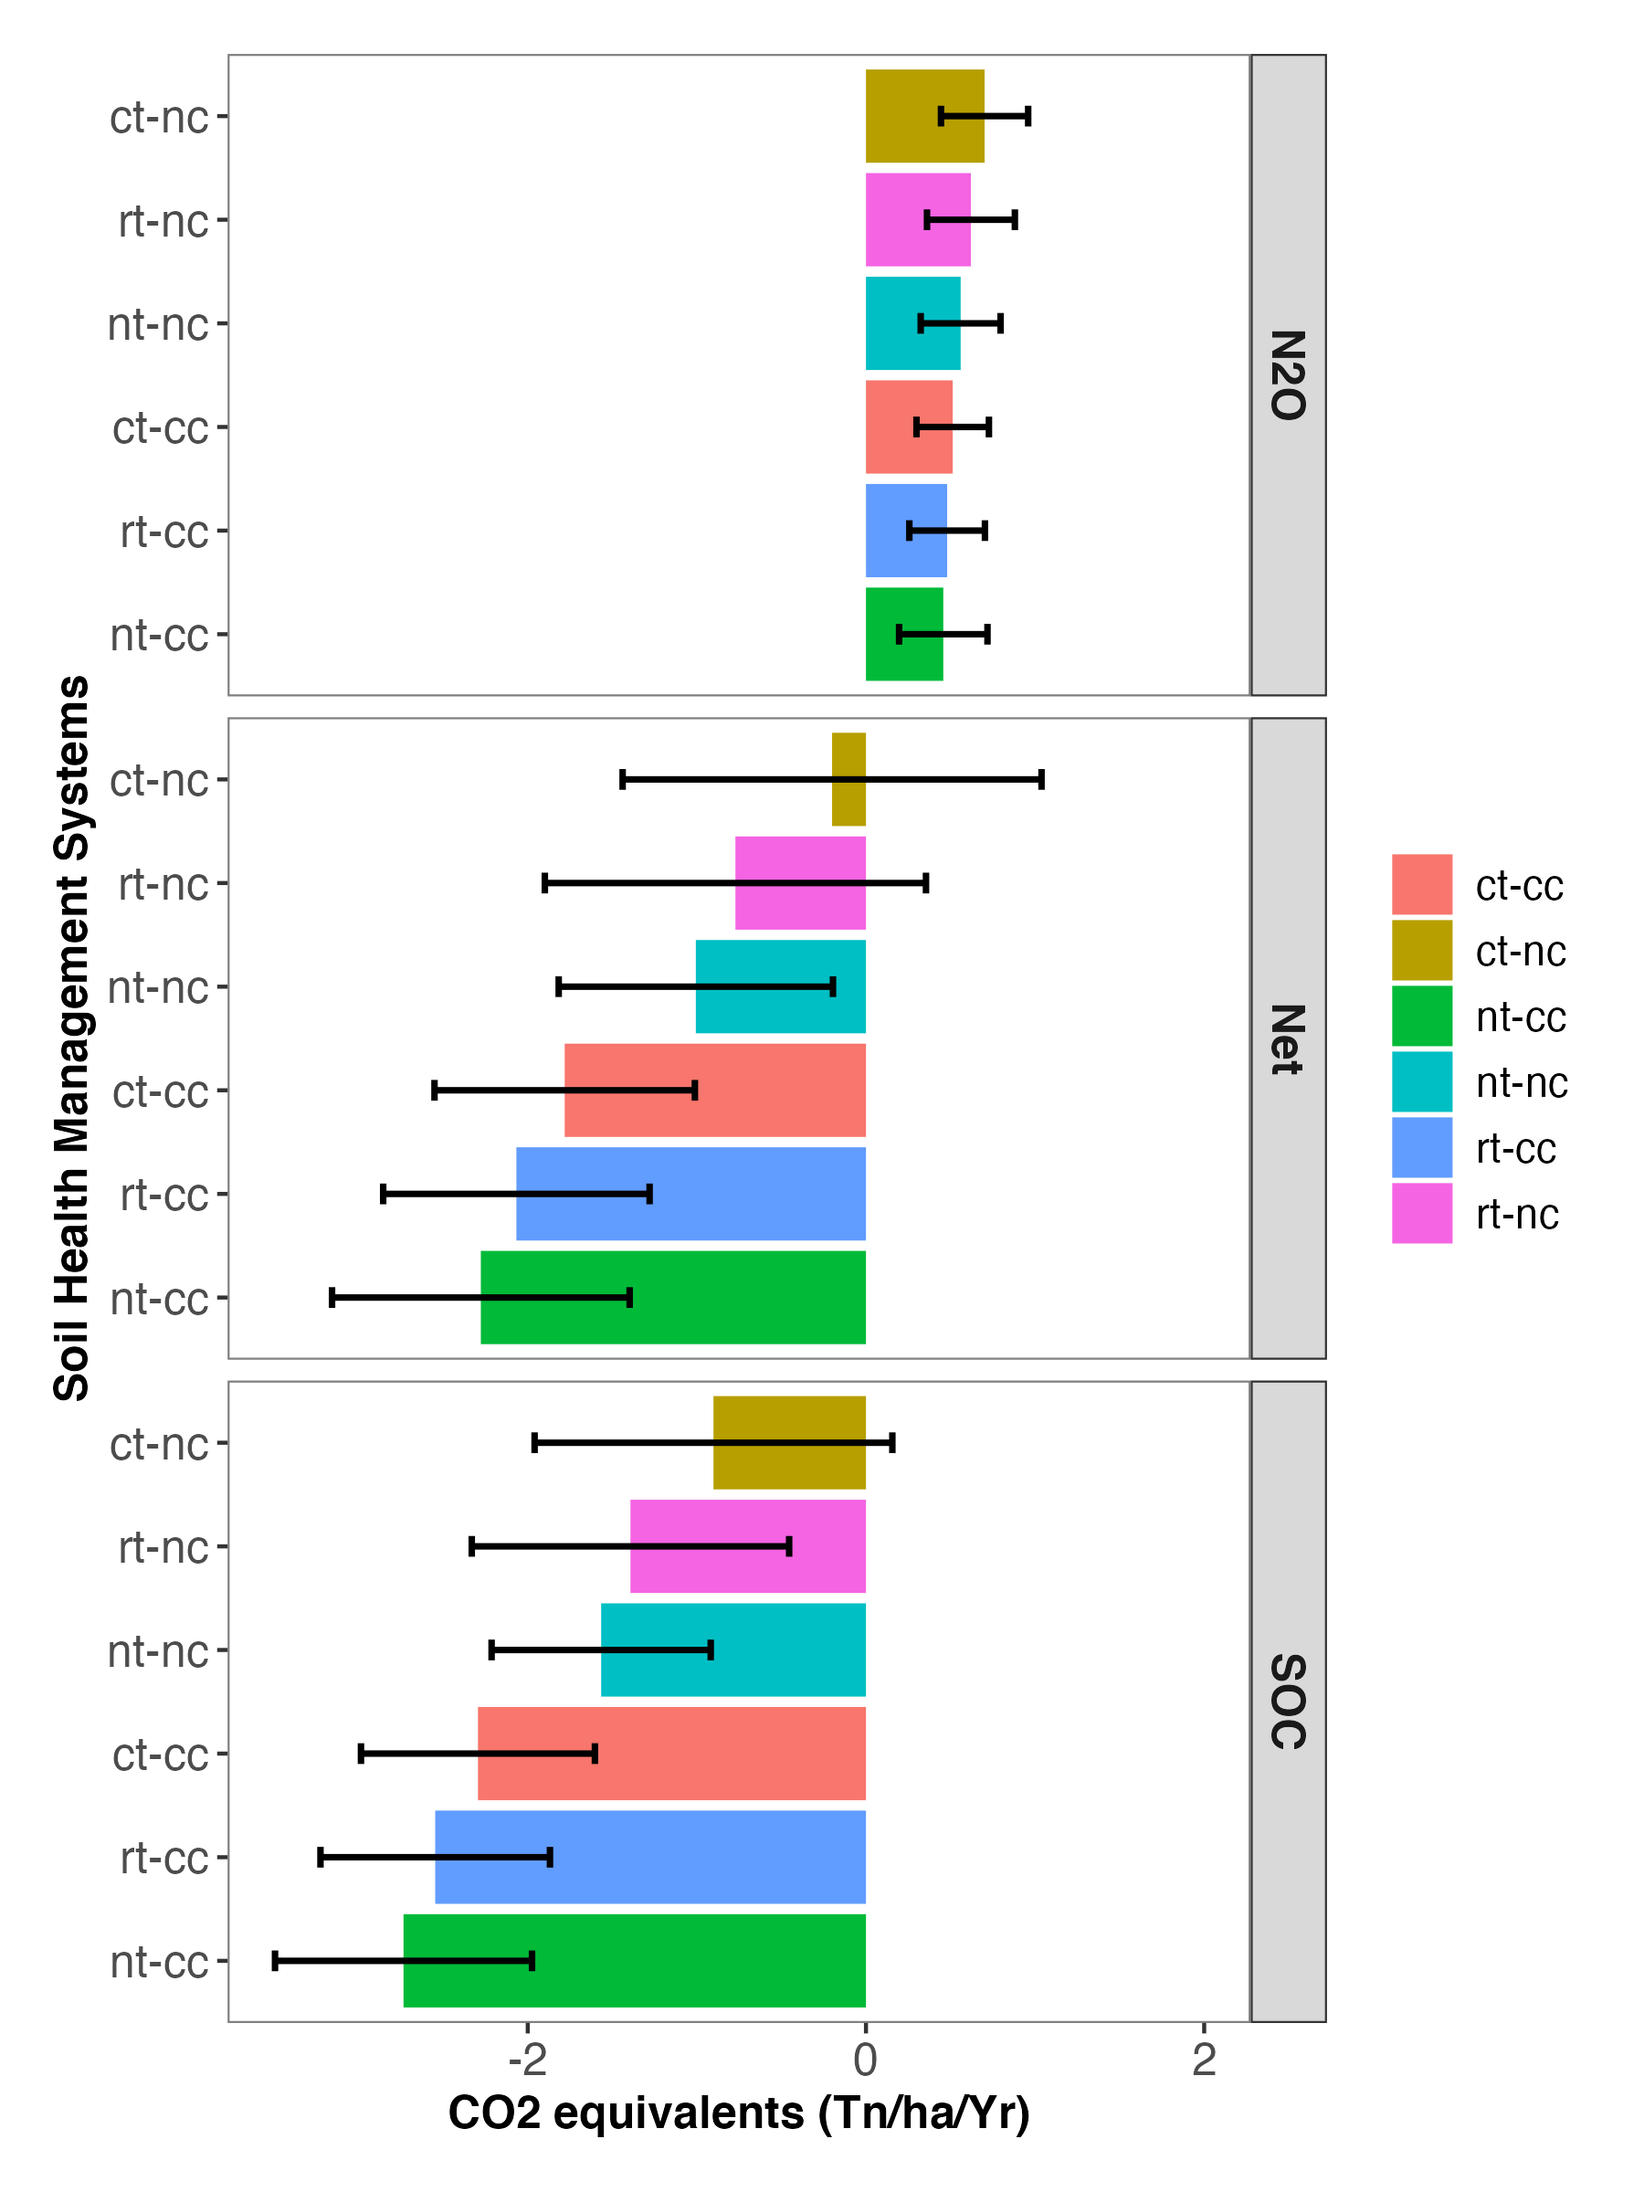
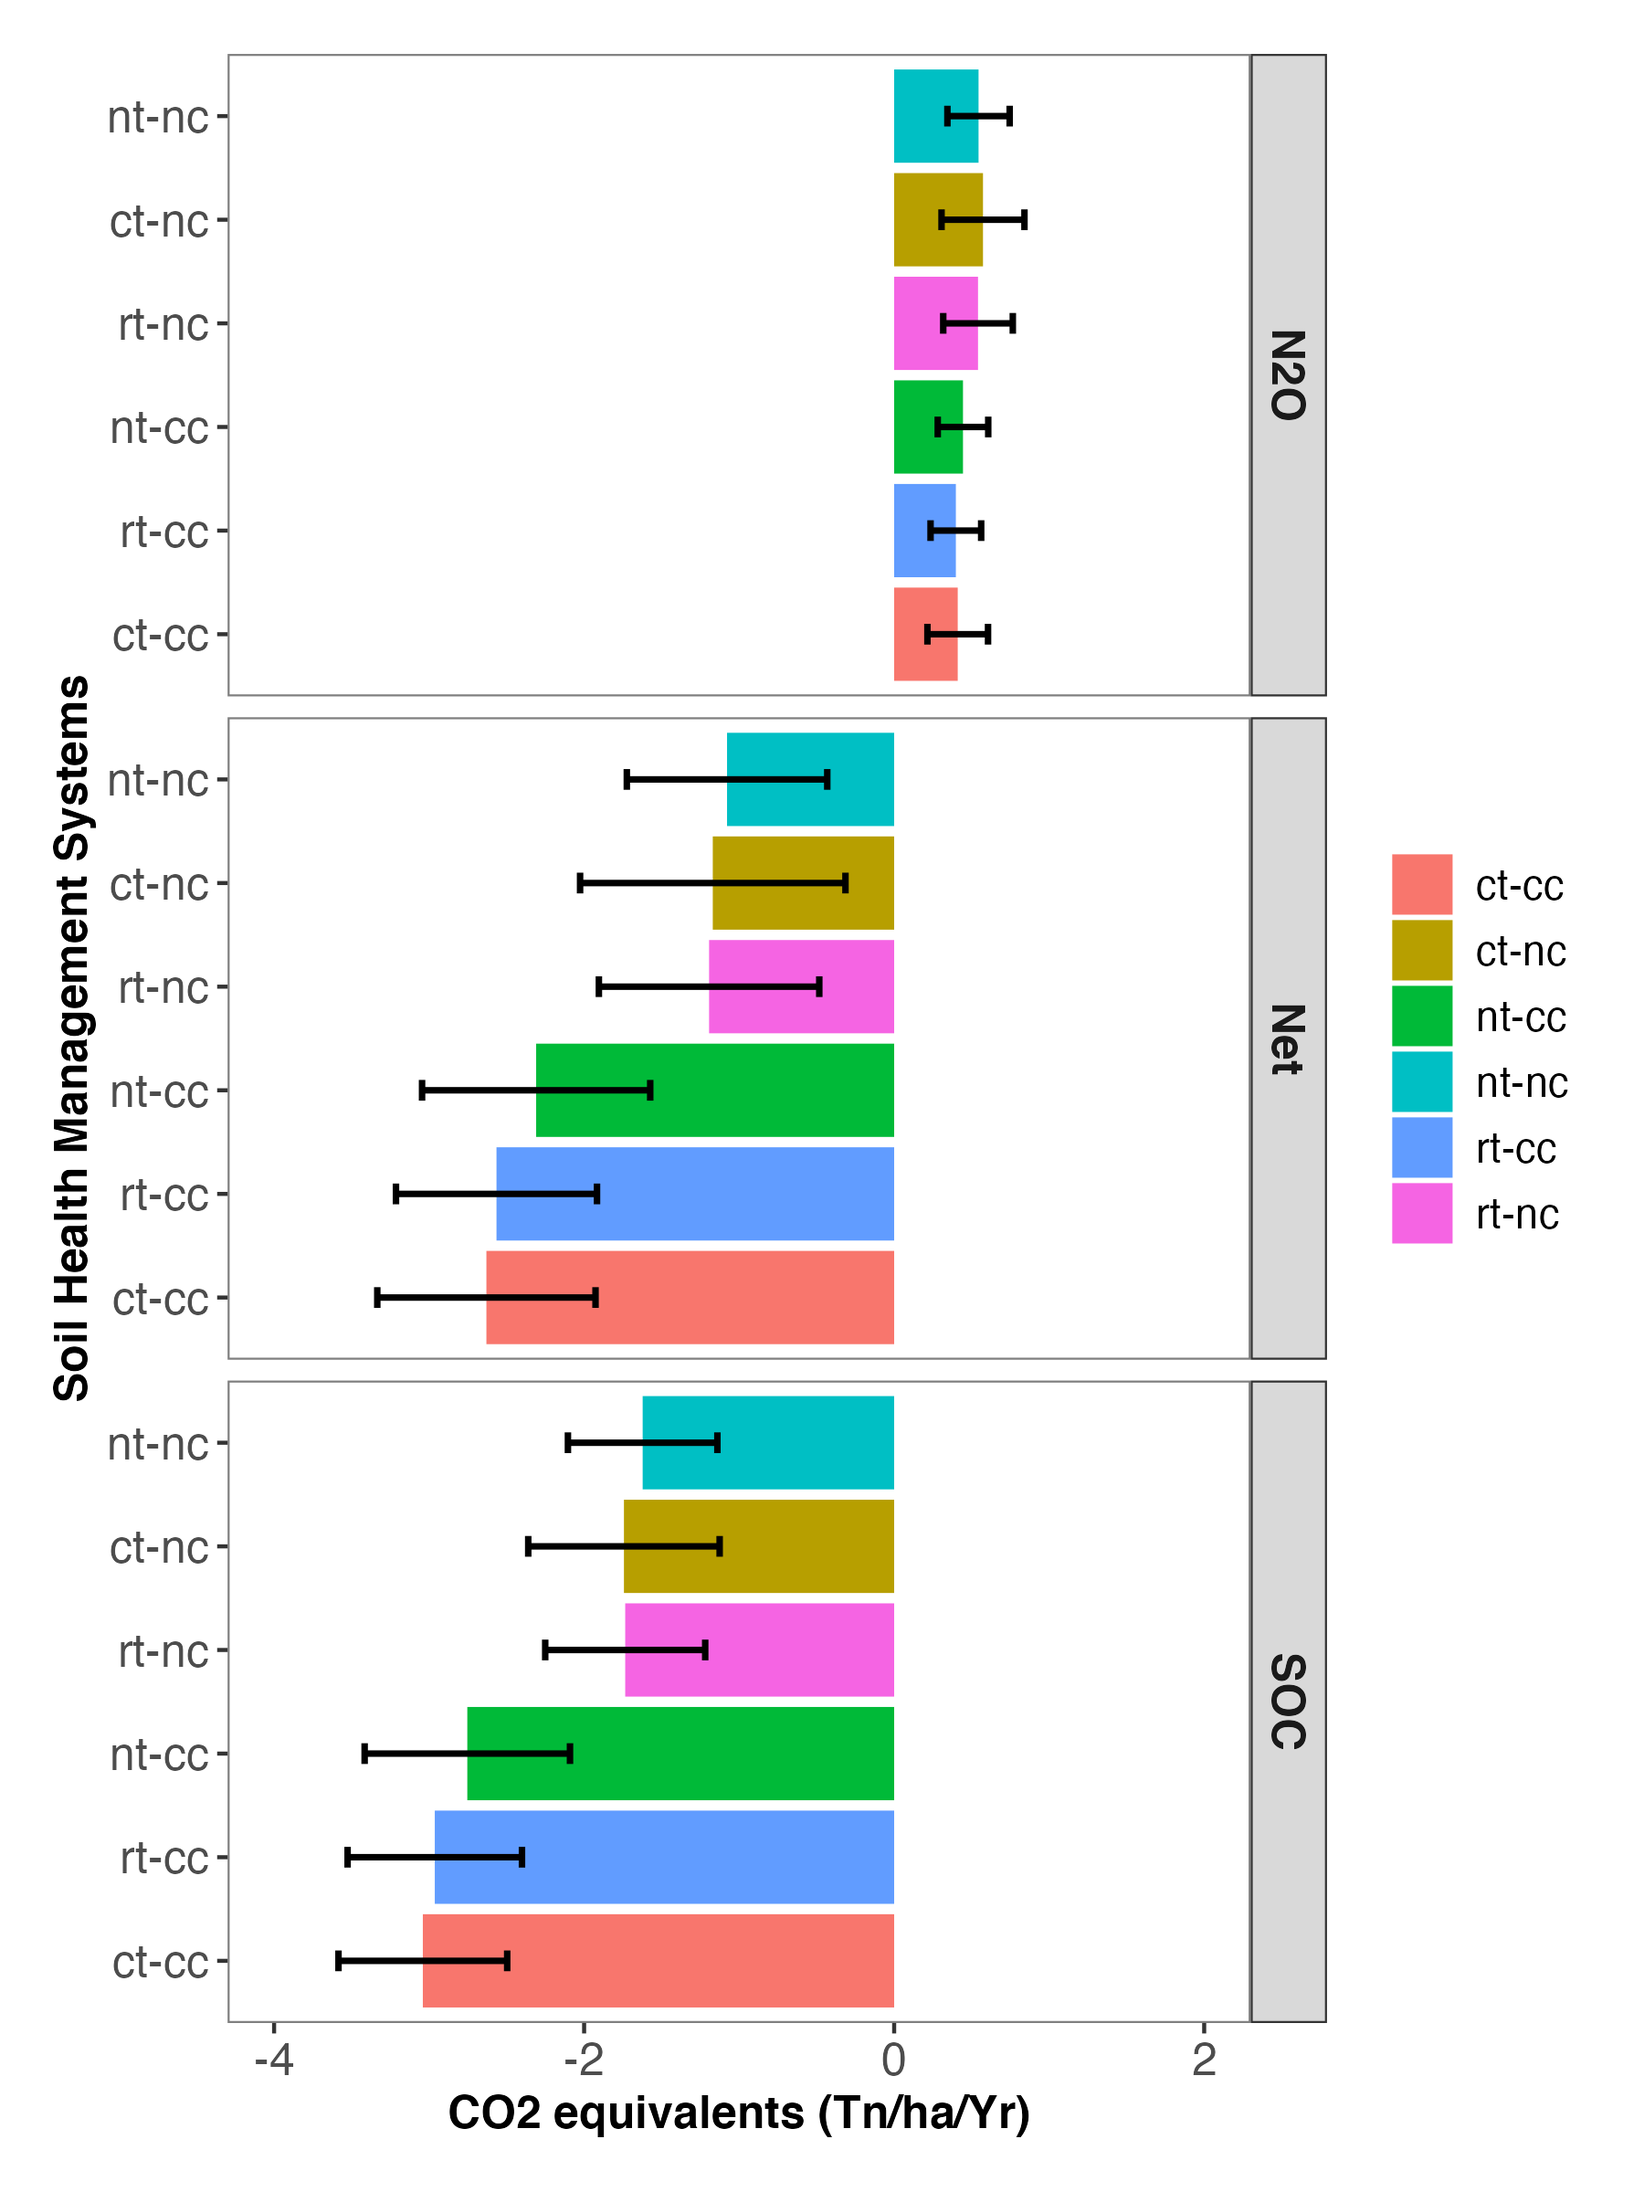
removing spin years, adding 22 soybean plots

diff --git a/README.md b/README.md
@@ -12,5 +12,8 @@ We did the average between the two climate scenarios
 We added the net impact as the balance between total N2O and DSCO in CO2 equivalents
 Farmers C markets are expressed in CO2 eq
 
-##
+# Current GHG per SHMs
+We selected 2022, and one climate scenario. Before 2022 is the spin up period for the model.
+Fertilizer management was average across same CC, NT, RT and NC
+We calculated the pure effect per management practices by comparing each systems. For example nt-cc; nt-nc. The differences between the two was average with the results of the other systems to address which system if NT or CC has a bigger effect. 
 
